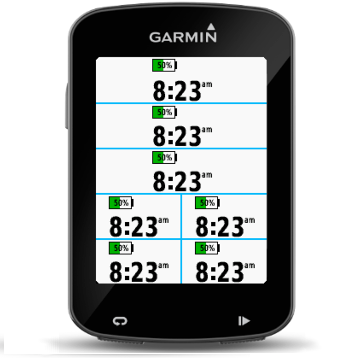
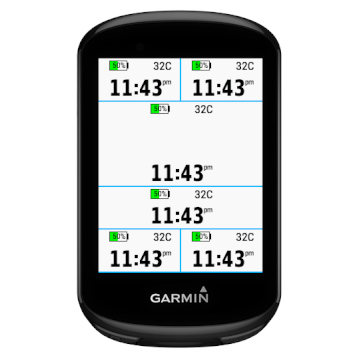
add temperature

diff --git a/README.md b/README.md
@@ -8,3 +8,4 @@ The data field shows the current time of day as main indicators.
 On the top of the field it displays the battery level.
 
 ![edge820](https://raw.github.com/peregin/connectiq-time-battery/master/doc/edge820.png "edge820")
+![edge830](https://raw.github.com/peregin/connectiq-time-battery/master/doc/edge830.png "edge830")
